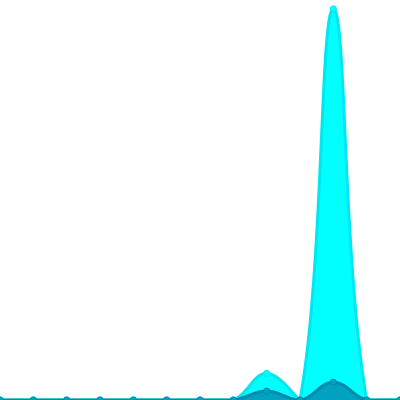
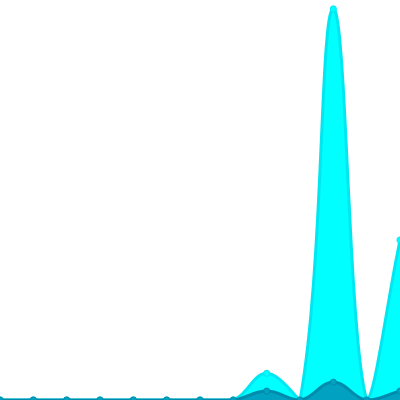
Update views

diff --git a/readme/384794626/year.md b/readme/384794626/year.md
@@ -23,10 +23,10 @@
 			<code>2023/12/1</code>
 		</td>
 		<td>
-			<code>0</code>
+			<code>1</code>
 		</td>
 		<td>
-			<code>0</code>
+			<code>18</code>
 		</td>
 	</tr>
 	<tr>
@@ -164,7 +164,7 @@
 </table>
 
 </details>
-<small><i>Last updated on 2023/12/4 1:03 AM UTC</i></small>
+<small><i>Last updated on 2023/12/4 6:18 AM UTC</i></small>
 
 ## ✂Copy and 📋 Paste
 ### SVG Badge

diff --git a/README.md b/README.md
@@ -53,7 +53,7 @@ The project created and maintained by [gayanvoice](https://github.com/gayanvoice
 	</tr>
 </table>
 
-<small><i>Last updated on 2023/12/4 1:03 AM UTC</i></small>
+<small><i>Last updated on 2023/12/4 6:19 AM UTC</i></small>
 
 ## ✂Copy and 📋 Paste
 ### Total Views Badge

diff --git a/readme/300973530/year.md b/readme/300973530/year.md
@@ -164,7 +164,7 @@
 </table>
 
 </details>
-<small><i>Last updated on 2023/12/4 1:03 AM UTC</i></small>
+<small><i>Last updated on 2023/12/4 6:18 AM UTC</i></small>
 
 ## ✂Copy and 📋 Paste
 ### SVG Badge
